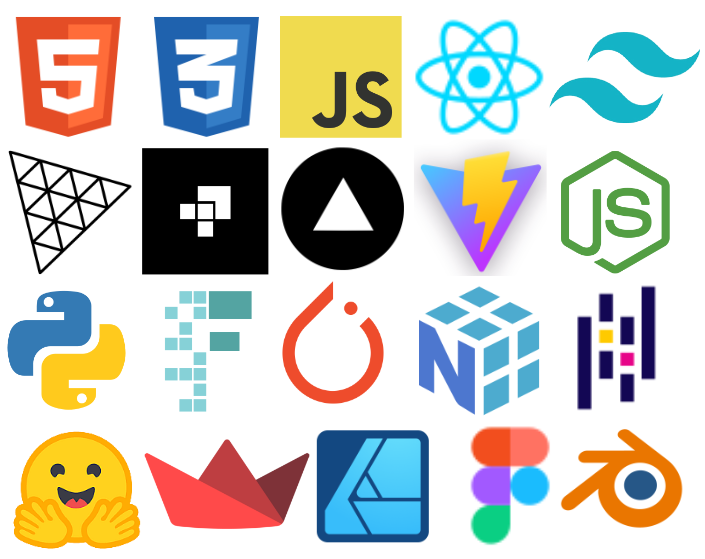
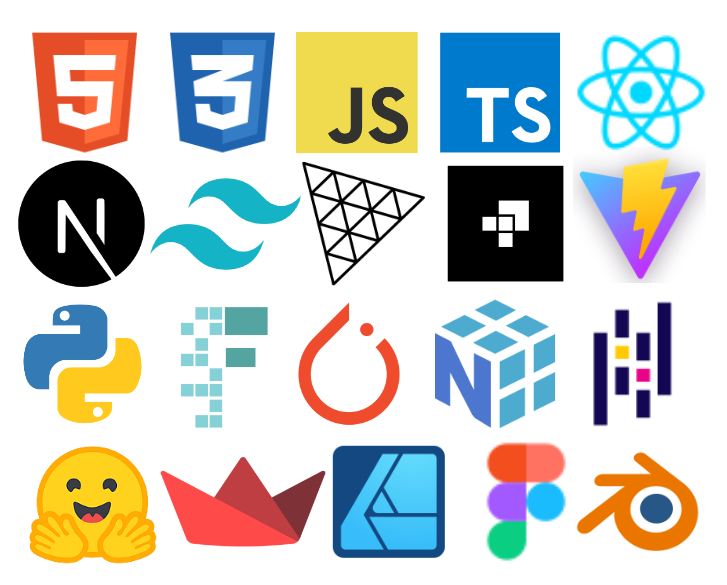
modify skills

diff --git a/src/components/Skills.jsx b/src/components/Skills.jsx
@@ -16,7 +16,7 @@ export default function Skills(props) {
     sections: [
       {
         title: "web",
-        children: ["react", "Typescript", "Tailwind"],
+        children: ["react", "Typescript", "Tailwind", "Next.js"],
       },
       {
         title: "mobile",
